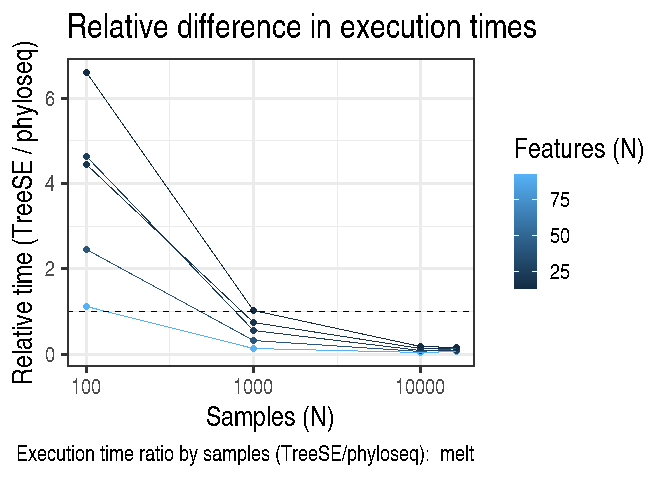
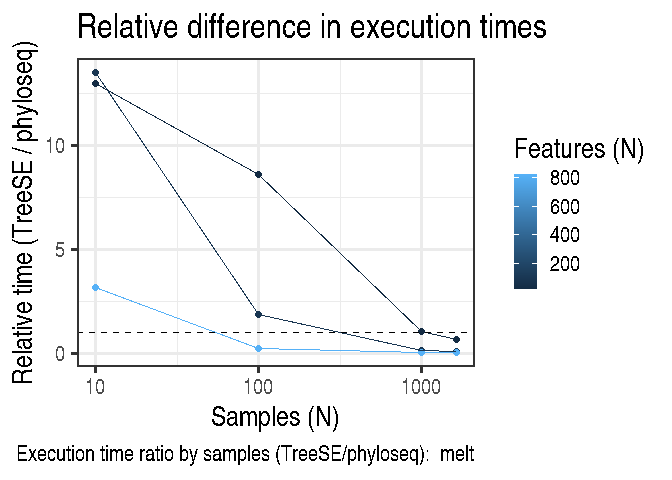
ok

diff --git a/reports/big_melt.md b/reports/big_melt.md
@@ -2,7 +2,7 @@ Overview
 --------
 
 This report contains the benchmarking results of the largest analysed
-data set (GrieneisenTSData) for the melt operation.
+data set (ShaoY\_2019) for the melt operation.
 
 Data Characteristics
 --------------------
@@ -19,9 +19,9 @@ Full sample sizes by data set:
 </thead>
 <tbody>
 <tr class="odd">
-<td style="text-align: left;">GrieneisenTSData</td>
-<td style="text-align: right;">16234</td>
-<td style="text-align: right;">613</td>
+<td style="text-align: left;">ShaoY_2019</td>
+<td style="text-align: right;">1644</td>
+<td style="text-align: right;">830</td>
 </tr>
 </tbody>
 </table>
@@ -32,29 +32,21 @@ Feature counts by data set:
 <thead>
 <tr class="header">
 <th style="text-align: left;">Rank</th>
-<th style="text-align: right;">GrieneisenTSData</th>
+<th style="text-align: right;">ShaoY_2019</th>
 </tr>
 </thead>
 <tbody>
 <tr class="odd">
 <td style="text-align: left;">Phylum</td>
-<td style="text-align: right;">12</td>
-</tr>
-<tr class="even">
-<td style="text-align: left;">Class</td>
-<td style="text-align: right;">18</td>
-</tr>
-<tr class="odd">
-<td style="text-align: left;">Order</td>
-<td style="text-align: right;">24</td>
+<td style="text-align: right;">14</td>
 </tr>
 <tr class="even">
 <td style="text-align: left;">Family</td>
-<td style="text-align: right;">40</td>
+<td style="text-align: right;">90</td>
 </tr>
 <tr class="odd">
-<td style="text-align: left;">Genus</td>
-<td style="text-align: right;">92</td>
+<td style="text-align: left;">Species</td>
+<td style="text-align: right;">819</td>
 </tr>
 </tbody>
 </table>
